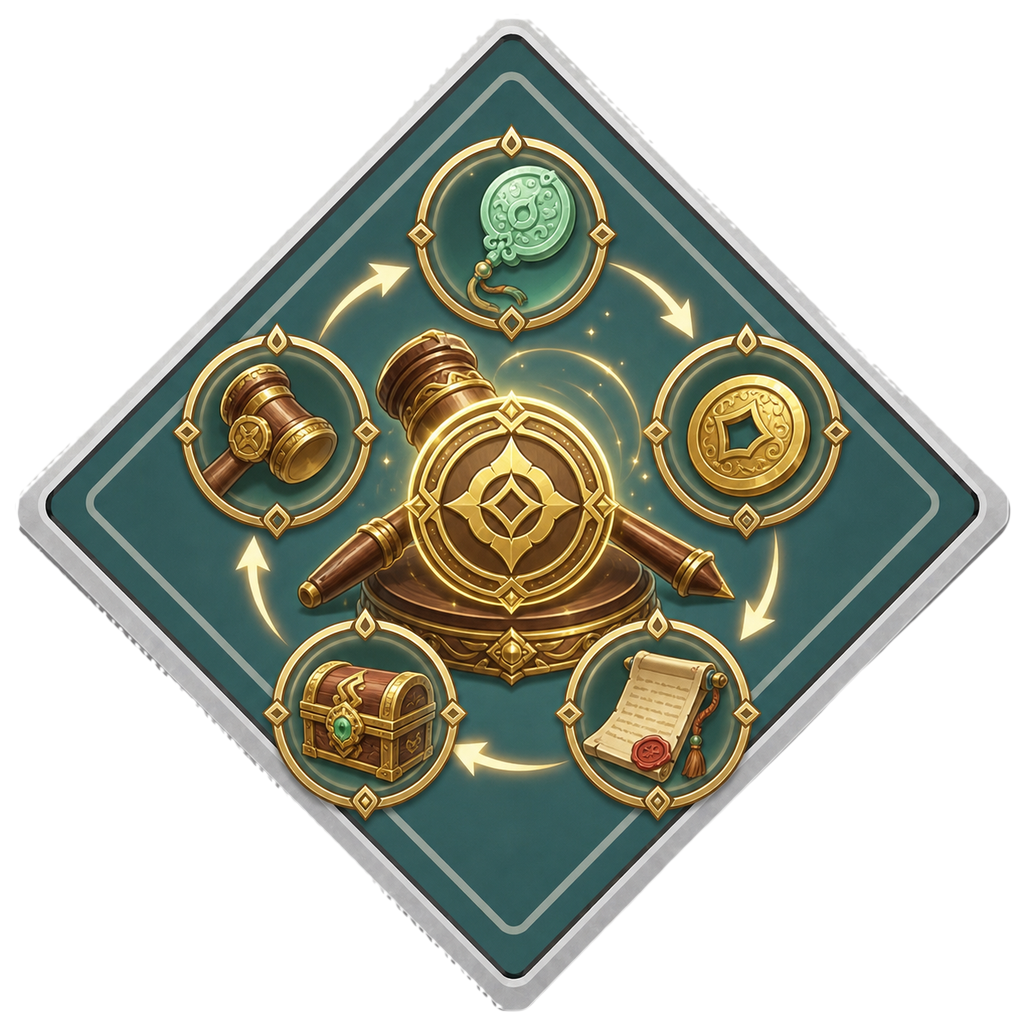
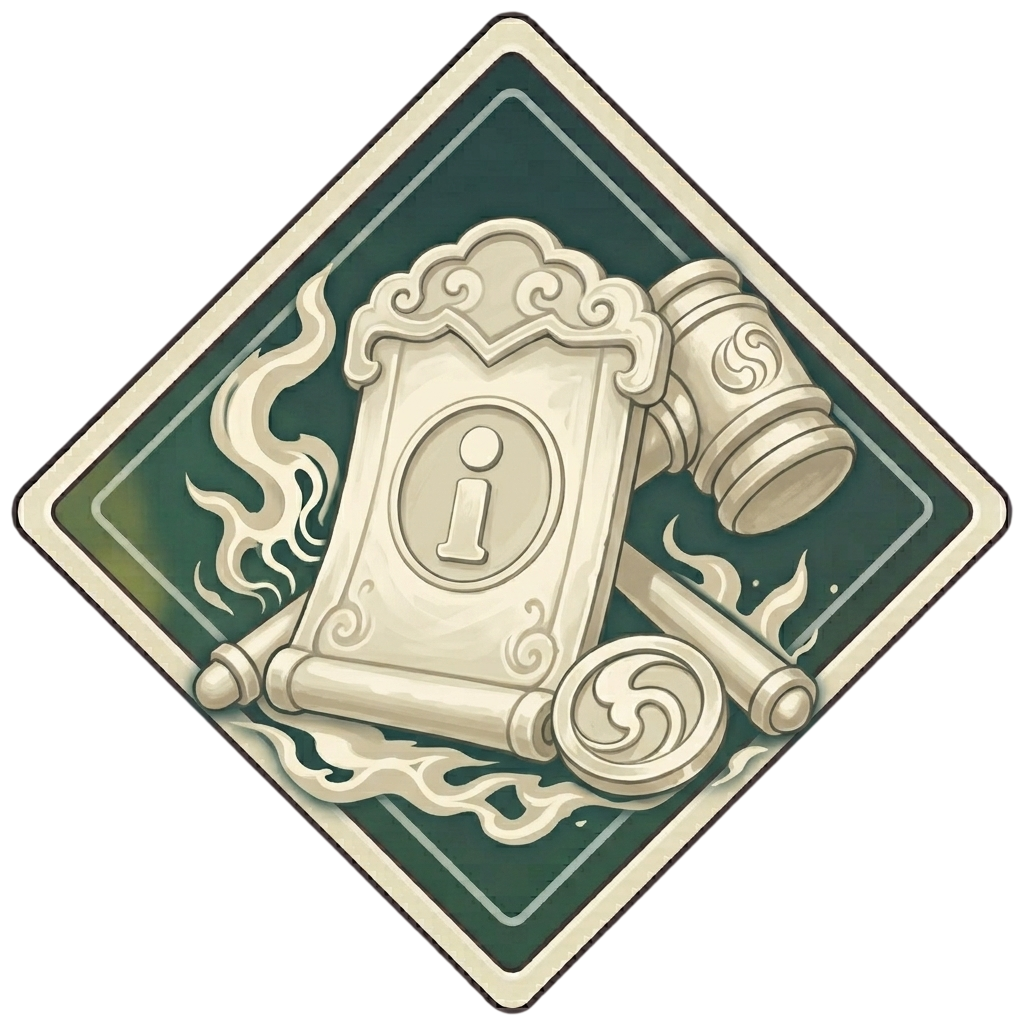
fix something
fix something

diff --git a/Assets/Scripts/Combat/PlayerUICombat.cs b/Assets/Scripts/Combat/PlayerUICombat.cs
@@ -589,16 +589,15 @@ public class PlayerUICombat : BaseBehaviour
     }
     public void NewTurn(params object[] data)
     {
-        if (!(bool)data[2])
+        CharacterCombat currentTurn = (CharacterCombat)data[0];
+        if(currentTurn != player)
         {
-            this.gameObject.SetActive(false);
             return;
-        }
+        }    
         this.gameObject.SetActive(true);
 
-        CharacterCombat player = (CharacterCombat)data[0];
         
-        if (player == null) return;
+        if (currentTurn == null) return;
         SetStateControl(EStateControl.None);
         
         foreach (var item in linhKhiRemains)
@@ -608,26 +607,26 @@ public class PlayerUICombat : BaseBehaviour
                 case ELinhKhi.None:
                     break;
                 case ELinhKhi.Kim:
-                    item.SetCount(player.khiKim);
+                    item.SetCount(currentTurn.khiKim);
                     break;
                 case ELinhKhi.Moc:
-                    item.SetCount(player.khiMoc);
+                    item.SetCount(currentTurn.khiMoc);
 
                     break;
                 case ELinhKhi.Thuy:
-                    item.SetCount(player.khiThuy);
+                    item.SetCount(currentTurn.khiThuy);
 
                     break;
                 case ELinhKhi.Hoa:
-                    item.SetCount(player.khiHoa);
+                    item.SetCount(currentTurn.khiHoa);
 
                     break;
                 case ELinhKhi.Tho:
-                    item.SetCount(player.khiTho);
+                    item.SetCount(currentTurn.khiTho);
 
                     break;
                 case ELinhKhi.Ma:
-                    item.SetCount(player.khiMa);
+                    item.SetCount(currentTurn.khiMa);
 
                     break;
                 default:
